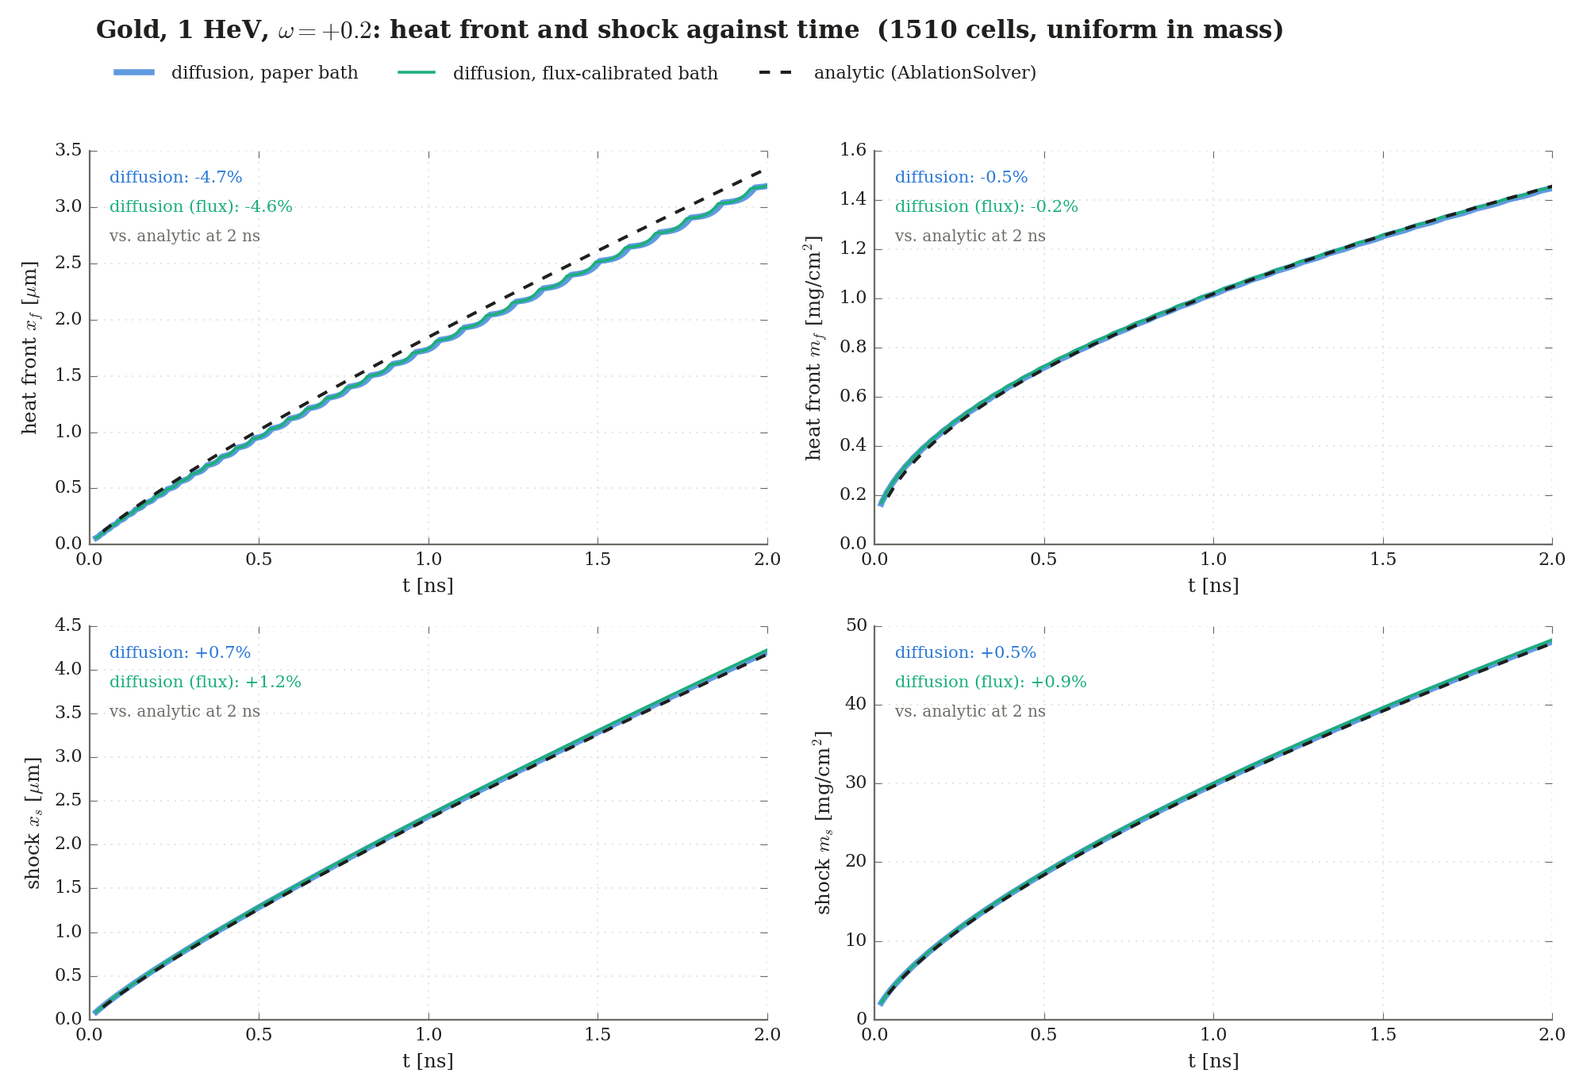
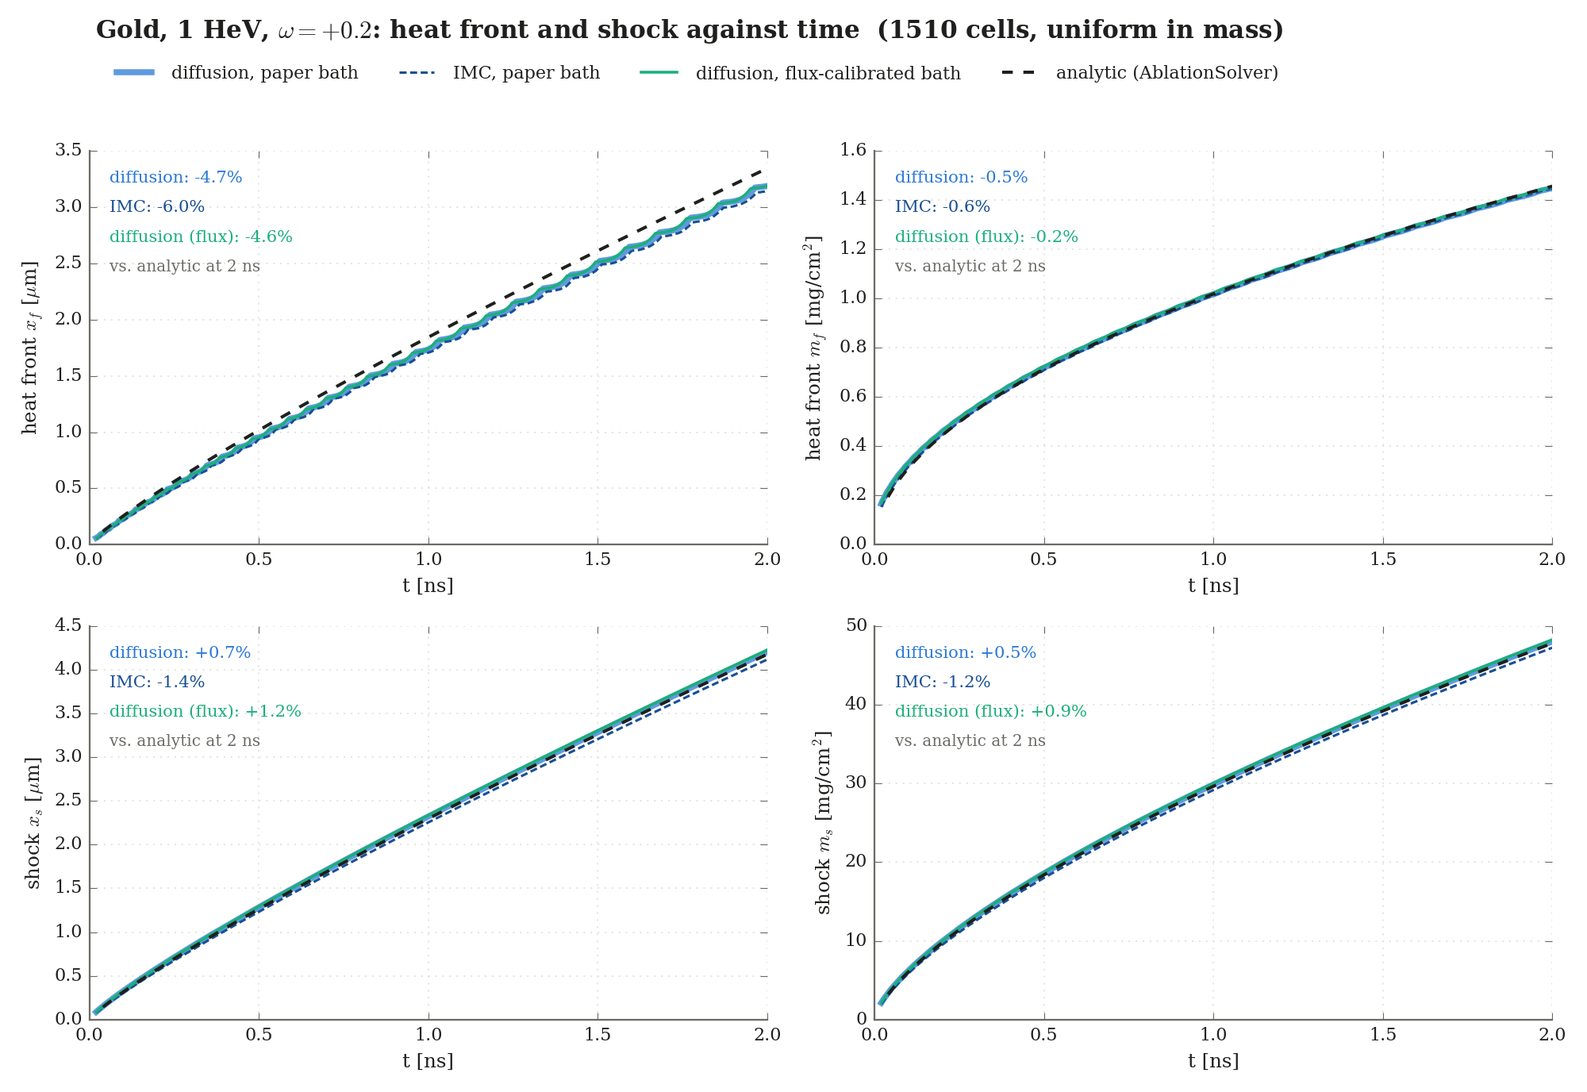
Tests 3-4: full / heat / shock views, linear and log-log, in every figure folder
imc_vs_diffusion.plot_hydro_profiles and bath_calibration.plot_overlay take region
("full", "heat": up to 1.3 m_heat, "shock": 0.85 m_heat ... 1.1 m_shock) and scale
("linear", "logx", "loglog"; u on a symmetric-log axis), with y limits from the
simulations inside the window and the 2/3/5 ticks labelled on log axes under 1.5
decades. bath_calibration --views writes md/phase_c/figures/<folder>/<case>/
<region>_<scale>.png for Test 3 (paper bath) and Test 4 (three baths and the overlay).
Default calls are unchanged.

SimulationConfig.dt_first_frac (default 1e-10, as before): the first two rad-hydro steps
as a fraction of t_end. They are not CFL-limited, and at omega = +0.6 the first one heats
the 1e-15 cm surface cell so much that c_s dt / dx ~ 6 and the compatible energy update
diverges; the sweep uses 1e-12 there. omega = +0.2 IMC added to the sweep.

diff --git a/src/rad_hydro_sim/verification/imc_vs_diffusion.py b/src/rad_hydro_sim/verification/imc_vs_diffusion.py
@@ -707,9 +707,25 @@ def optical_depth_line(run) -> str:
     return "optical depth of the hot plasma, T > T_s/2 (diffusion run): " + "; ".join(parts)
 
 
+def label_short_log_axes(ax):
+    """On a log axis spanning under ~1.5 decades matplotlib labels no tick; label the 2, 3, 5 ones."""
+    from matplotlib.ticker import FuncFormatter, LogLocator
+
+    for axis, (lo, hi) in ((ax.xaxis, ax.get_xlim()), (ax.yaxis, ax.get_ylim())):
+        if axis.get_scale() == "log" and lo > 0 and hi / lo < 30:
+            axis.set_major_locator(LogLocator(base=10, subs=(1.0, 2.0, 3.0, 5.0)))
+            axis.set_major_formatter(FuncFormatter(lambda v, _: f"{v:g}"))
+            axis.set_minor_formatter(FuncFormatter(lambda v, _: ""))
+
+
 def plot_hydro_profiles(out: Path, label: str, seeds, path: Path, solver=None, patched=(), log_axis=None,
-                        analytic_label="Analytic", method=None):
+                        analytic_label="Analytic", method=None, region="full", scale=None):
     """rho, p, u, T against mass at 1, 1.5, 2 ns, in the style of the ICTT figures.
+
+    ``region``: "full" (the domain), "heat" (the ablated layer, up to 1.3 m_heat) or "shock"
+    (from 0.85 m_heat to 1.1 m_shock); the y limits come from the simulations inside it.
+    ``scale``: "linear", "logx" (log mass axis) or "loglog" (log mass and log rho, p, T; u, which
+    changes sign, on a symmetric-log axis); None keeps the case's log_mass_axis (or ``log_axis``).
 
     ``solver``: the analytic curve, an AblationSolver to reuse (building one takes ~20 min) or
     any object with solve(mass=, time=), such as bath_calibration.Analytic;
@@ -746,12 +762,14 @@ def plot_hydro_profiles(out: Path, label: str, seeds, path: Path, solver=None, p
     fig, axes = plt.subplots(2, 2, figsize=(14, 10))
     panels = {"rho": axes[0, 0], "p": axes[0, 1], "u": axes[1, 0], "T_material": axes[1, 1]}
     m_heat, m_shock, T_shocked = [], [], []
+    m_layer = 1.5 * front_values(d, label, float(d["t"][snaps[-1]]))["m_heat"]
     for col, k in zip(sim_colors, snaps):
         t = float(d["t"][k])
         m_sim = d["m"][k]
-        # dense on both a linear and a log axis (a thin ablated layer on a wide domain)
+        # dense on both a linear and a log axis (a thin ablated layer on a wide domain), and in the layer
         mass = np.unique(np.concatenate((np.linspace(1e-12, m_sim[-1], 1000),
-                                         np.geomspace(1e-4 * m_sim[0], m_sim[-1], 1500))))
+                                         np.geomspace(1e-4 * m_sim[0], m_sim[-1], 1500),
+                                         np.linspace(1e-12, min(m_layer, m_sim[-1]), 800))))
         exact = solver.solve(mass=mass, time=t)
         mean = {key: np.mean([r[key][k] for r in imc], axis=0) for key in scales} if imc else None
         for key, ax in panels.items():
@@ -769,25 +787,45 @@ def plot_hydro_profiles(out: Path, label: str, seeds, path: Path, solver=None, p
         behind = (m_sim > 0.5 * m_shock[-1]) & (m_sim < m_shock[-1])          # the shocked plateau
         T_shocked.append(float(np.max(d["T_material"][k][behind])) / K_PER_HEV if behind.any() else 0.0)
 
-    # y limits from the simulations, as in the reference (keeps the analytic singularities in bounds)
-    sim = {key: np.concatenate([d[key][k] * scales[key] for k in snaps]) for key in scales}
-    panels["rho"].set_ylim(-0.025 * sim["rho"].max(), 1.15 * sim["rho"].max())
-    panels["p"].set_ylim(-0.05 * sim["p"].max(), 1.15 * sim["p"].max())
-    panels["u"].set_ylim(1.15 * sim["u"].min() - 5.0, sim["u"].max() + 10.0)
-    panels["T_material"].set_ylim(-0.05 * sim["T_material"].max(), 1.15 * sim["T_material"].max())
+    explicit_view = scale is not None or region != "full"
+    if scale is None:
+        scale = "logx" if (HYDRO_CASES[label].log_mass_axis if log_axis is None else log_axis) else "linear"
+    log_x = scale in ("logx", "loglog")
+    # the mass window [mg/cm^2]
     x_max = 1e3 * float(d["m"][snaps[-1]][-1])
+    x_first = 0.5e3 * float(np.min(d["m"][snaps[-1]]))
+    lo, hi = {"full": (x_first if log_x else 0.0, x_max),
+              "heat": (x_first if log_x else 0.0, min(1.3e3 * max(m_heat), x_max)),
+              "shock": (0.85e3 * min(m_heat), min(1.1e3 * max(m_shock), x_max))}[region]
+    # y limits from the simulations inside the window (keeps the analytic singularities in bounds)
+    sim = {key: np.concatenate([d[key][k][(d["m"][k] * 1e3 >= lo) & (d["m"][k] * 1e3 <= hi)] * scales[key]
+                                for k in snaps]) for key in scales}
+    for key, ax in panels.items():
+        v = sim[key]
+        if scale == "loglog" and key != "u":
+            pos = v[v > 0]
+            ax.set_yscale("log")
+            ax.set_ylim(0.7 * max(pos.min(), 1e-9 * pos.max()), 1.6 * pos.max())
+        elif scale == "loglog":       # u changes sign: symmetric log, linear within 1 km/s
+            ax.set_yscale("symlog", linthresh=1.0)
+            ax.set_ylim(1.5 * min(v.min(), -1.0), 1.5 * max(v.max(), 1.0))
+        elif region == "full":        # as in the reference figure
+            top = {"rho": 1.15, "p": 1.15, "T_material": 1.15}
+            if key == "u":
+                ax.set_ylim(1.15 * v.min() - 5.0, v.max() + 10.0)
+            else:
+                ax.set_ylim(-(0.025 if key == "rho" else 0.05) * v.max(), top[key] * v.max())
+        else:
+            span = v.max() - v.min()
+            ax.set_ylim(v.min() - 0.06 * span, v.max() + 0.12 * span)
 
     titles = {"rho": "Density", "p": "Pressure", "u": "Velocity", "T_material": "Temperature"}
     ylabels = {"rho": r"$\rho$ [g/cm³]", "p": r"$P$ [MBar]", "u": r"$u$ [km/s]", "T_material": r"$T$ [HeV]"}
-    if log_axis is None:
-        log_axis = HYDRO_CASES[label].log_mass_axis
-    x_min = 0.5e3 * float(np.min(d["m"][snaps[-1]]))
     for key, ax in panels.items():
-        if log_axis:      # a thin ablated layer on a wide domain: both in view at once
+        if log_x:         # a thin ablated layer on a wide domain: both in view at once
             ax.set_xscale("log")
-            ax.set_xlim(x_min, x_max)
-        else:
-            ax.set_xlim(0.0, x_max)
+        ax.set_xlim(lo, hi)
+        label_short_log_axes(ax)
         ax.grid(True, alpha=0.3)
         ax.set_title(titles[key], fontsize=14, fontweight="bold")
         ax.set_ylabel(ylabels[key], fontsize=13)
@@ -813,7 +851,7 @@ def plot_hydro_profiles(out: Path, label: str, seeds, path: Path, solver=None, p
         "T_material": ((0.40, 0.42, 0.60, 0.50), (0.8e3 * min(m_shock), 1.05e3 * max(m_shock)),
                        (0.0, 3.5 * max(T_shocked) if max(T_shocked) > 0 else 0.15)),
     }
-    for key, (pos, xlim, ylim) in ({} if log_axis else insets).items():
+    for key, (pos, xlim, ylim) in (insets if (region == "full" and scale == "linear") else {}).items():
         ax = panels[key]
         ins = ax.inset_axes(list(pos))
         for line in ax.get_lines():
@@ -826,8 +864,11 @@ def plot_hydro_profiles(out: Path, label: str, seeds, path: Path, solver=None, p
         ax.indicate_inset_zoom(ins, edgecolor="gray", alpha=0.6)
 
     tau, thin, T_s = layer_optical_depth(d)
+    view = ({"full": "full domain", "heat": "heat region", "shock": "shocked region"}[region] + ", "
+            + {"linear": "linear", "logx": "log mass axis", "loglog": "log-log"}[scale]) if explicit_view else ""
     fig.suptitle(f"Patched Ablation & Shock Verification: Diffusion vs IMC\n{HYDRO_CASES[label].title}"
-                 + (f"; {method}" if method else ""), fontsize=16, fontweight="bold", y=0.995)
+                 + (f"; {method}" if method else "") + (f"; {view}" if view else ""),
+                 fontsize=16, fontweight="bold", y=0.995)
     fig.text(0.5, 0.925, rf"hot ablated plasma ($T > T_s/2$) at {d['t'][-1] * 1e9:.1f} ns: optical depth $\mathcal{{T}}$ = {tau:.3g}, "
              rf"{thin:.0%} of its mass in cells with $\tau$ < 1;  surface T = {T_s:.3f} HeV (solver: "
              rf"{T_drive(label, float(d['t'][-1])):.3f})", ha="center", fontsize=12, style="italic")

diff --git a/src/rad_hydro_sim/verification/bath_calibration.py b/src/rad_hydro_sim/verification/bath_calibration.py
@@ -192,9 +192,13 @@ def _style(ax):
     ax.tick_params(colors=MUTED, labelcolor=INK, labelsize=10)
 
 
-def plot_overlay(label: str, path: Path, t: float = 2e-9):
+def plot_overlay(label: str, path: Path, t: float = 2e-9, region="full", scale=None):
     """Diffusion under every bath of one case at t against the analytic solution; the bath
-    closest to it by profile_score drawn bold, the baths ranked beside the profiles."""
+    closest to it by profile_score drawn bold, the baths ranked beside the profiles.
+
+    ``region`` / ``scale`` as in imc_vs_diffusion.plot_hydro_profiles: "full", "heat" or "shock";
+    "linear", "logx" or "loglog" (None: the case's log_mass_axis).  The ranking is always over
+    the full domain."""
     import matplotlib
     matplotlib.use("Agg")
     import matplotlib.pyplot as plt
@@ -221,25 +225,44 @@ def plot_overlay(label: str, path: Path, t: float = 2e-9):
     m_dense = np.unique(np.concatenate((np.linspace(1e-12, m_end, 1500),
                                         np.geomspace(1e-4 * min(r["m"][k[b]][0] for b, r in runs.items()), m_end, 1500))))
     t_an = float(runs[best["bath"]]["t"][k[best["bath"]]])
+    fronts = [ivd.front_values(r, label, float(r["t"][k[b]])) for b, r in runs.items()]
+    shock = max([analytic.front_values(t_an)["m_shock"]] + [fv["m_shock"] for fv in fronts])
+    heat = max([analytic.front_values(t_an)["m_heat"]] + [fv["m_heat"] for fv in fronts])
+    heat_min = min([analytic.front_values(t_an)["m_heat"]] + [fv["m_heat"] for fv in fronts])
+    explicit_view = scale is not None or region != "full"
+    if scale is None:
+        scale = "logx" if ivd.HYDRO_CASES[label].log_mass_axis else "linear"
+    log_x = scale in ("logx", "loglog")
+    x_first = 0.5e3 * min(r["m"][k[b]][0] for b, r in runs.items())
+    x_lo, x_hi = {"full": (x_first if log_x else 0.0, 1.15e3 * shock),
+                  "heat": (x_first if log_x else 0.0, 1.3e3 * heat),
+                  "shock": (0.85e3 * heat_min, 1.1e3 * shock)}[region]
+    m_dense = np.unique(np.concatenate((m_dense, np.linspace(max(x_lo, 1e-9) * 1e-3, x_hi * 1e-3, 1500))))
     sol = analytic.solve(mass=m_dense, time=t_an)
-    shock = max([analytic.front_values(t_an)["m_shock"]] +
-                [ivd.front_values(r, label, float(r["t"][k[b]]))["m_shock"] for b, r in runs.items()])
-    log_axis = ivd.HYDRO_CASES[label].log_mass_axis
-    for key, ref, ylabel, scale in FIELDS:
+    for key, ref, ylabel, fscale in FIELDS:
         ax = axes[key]
         for b, r in runs.items():
             hl = b == best["bath"]
-            ax.plot(r["m"][k[b]] * 1e3, r[key][k[b]] * scale, color=BATH_COLOR[b], lw=2.4 if hl else 1.2,
+            ax.plot(r["m"][k[b]] * 1e3, r[key][k[b]] * fscale, color=BATH_COLOR[b], lw=2.4 if hl else 1.2,
                     alpha=1.0 if hl else 0.55, zorder=3 if hl else 2)
-        ax.plot(m_dense * 1e3, np.asarray(sol[ref], dtype=float) * scale, color=INK, ls="--", lw=1.8, zorder=4)
-        sim = np.concatenate([r[key][k[b]] * scale for b, r in runs.items()])
-        lo, hi = sim.min(), sim.max()
-        ax.set_ylim(lo - 0.06 * (hi - lo), hi + 0.12 * (hi - lo))
-        if log_axis:
-            ax.set_xscale("log")
-            ax.set_xlim(0.5e3 * min(r["m"][k[b]][0] for b, r in runs.items()), 1.15e3 * shock)
+        ax.plot(m_dense * 1e3, np.asarray(sol[ref], dtype=float) * fscale, color=INK, ls="--", lw=1.8, zorder=4)
+        # y limits from the simulations inside the mass window
+        sim = np.concatenate([r[key][k[b]][(r["m"][k[b]] * 1e3 >= x_lo) & (r["m"][k[b]] * 1e3 <= x_hi)] * fscale
+                              for b, r in runs.items()])
+        if scale == "loglog" and key != "u":
+            pos = sim[sim > 0]
+            ax.set_yscale("log")
+            ax.set_ylim(0.7 * max(pos.min(), 1e-9 * pos.max()), 1.6 * pos.max())
+        elif scale == "loglog":   # u changes sign: symmetric log, linear within 1 km/s
+            ax.set_yscale("symlog", linthresh=1.0)
+            ax.set_ylim(1.5 * min(sim.min(), -1.0), 1.5 * max(sim.max(), 1.0))
         else:
-            ax.set_xlim(0.0, 1.15e3 * shock)
+            lo, hi = sim.min(), sim.max()
+            ax.set_ylim(lo - 0.06 * (hi - lo), hi + 0.12 * (hi - lo))
+        if log_x:
+            ax.set_xscale("log")
+        ax.set_xlim(x_lo, x_hi)
+        ivd.label_short_log_axes(ax)
         ax.set_ylabel(ylabel, color=INK, fontsize=12)
         ax.set_xlabel(r"mass $m$ [mg/cm$^2$]", color=INK, fontsize=11)
         ax.set_title(ref.capitalize(), color=INK, fontsize=13, loc="left", fontweight="bold")
@@ -284,12 +307,48 @@ def plot_overlay(label: str, path: Path, t: float = 2e-9):
     verdict = f"Closest: {BATH_SHORT[best['bath']]}"
     if len(rows) > 1 and rows[1]["score"] - best["score"] < 1e-3:   # within 0.1 percentage point
         verdict = f"Tie: {BATH_SHORT[best['bath']]} and {BATH_SHORT[rows[1]['bath']]}"
-    fig.suptitle(f"{ivd.HYDRO_CASES[label].title}: diffusion under each bath at {t_an * 1e9:.1f} ns.  {verdict}",
+    view = ({"full": "full domain", "heat": "heat region", "shock": "shocked region"}[region] + ", "
+            + {"linear": "linear", "logx": "log mass axis", "loglog": "log-log"}[scale] + ".  ") if explicit_view else ""
+    fig.suptitle(f"{ivd.HYDRO_CASES[label].title}: diffusion under each bath at {t_an * 1e9:.1f} ns; {view}{verdict}",
                  x=0.055, ha="left", fontsize=15, fontweight="bold", color=INK, y=0.985)
     path.parent.mkdir(parents=True, exist_ok=True)
     fig.savefig(path, dpi=170)
     plt.close(fig)
     return rows
+
+
+VIEW_CASES = ("test3_smooth", "test4_full")
+REGIONS = ("full", "heat", "shock")
+SCALES = ("linear", "loglog")
+
+
+def plot_views(labels=VIEW_CASES, baths=tuple(BATHS)):
+    """Every region x scale view of each case, in each bath folder and (cases with more than one
+    bath) in overlay/: md/phase_c/figures/<folder>/<case>/<region>_<scale>.png."""
+    import matplotlib
+    matplotlib.use("Agg")
+
+    for label in labels:
+        stem = figure_name(label).replace("_profiles.png", "")
+        analytic = None
+        for bath in baths:
+            folder, out = BATHS[bath]
+            if not (out / f"{label}_diffusion.npz").exists():
+                continue
+            analytic = analytic or Analytic(label)
+            for region in REGIONS:
+                for scale in SCALES:
+                    path = FIG / folder / stem / f"{region}_{scale}.png"
+                    path.parent.mkdir(parents=True, exist_ok=True)
+                    ivd.plot_hydro_profiles(out, label, (1, 2, 3), path, solver=analytic, method=BATH_TEXT[bath],
+                                            region=region, scale=scale)
+                    print(f"  wrote {path.relative_to(ivd.REPO)}", flush=True)
+        if len(baths_of(label)) > 1:
+            for region in REGIONS:
+                for scale in SCALES:
+                    path = FIG / "overlay" / stem / f"{region}_{scale}.png"
+                    plot_overlay(label, path, region=region, scale=scale)
+                    print(f"  wrote {path.relative_to(ivd.REPO)}", flush=True)
 
 
 def main(argv=None):
@@ -304,6 +363,9 @@ def main(argv=None):
     ap.add_argument("--overlay", action="store_true",
                     help="cases with more than one bath: one figure comparing them, md/phase_c/figures/overlay/")
     ap.add_argument("--baths", nargs="*", default=list(BATHS), choices=list(BATHS))
+    ap.add_argument("--views", action="store_true",
+                    help="every region (full, heat, shock) x scale (linear, log-log) view of --cases, "
+                         "md/phase_c/figures/<folder>/<case>/")
     args = ap.parse_args(argv)
     labels = list(args.cases)
     for w in args.omega_scan:
@@ -314,6 +376,9 @@ def main(argv=None):
         return
     if args.profiles:
         plot_profile_set(labels, args.baths)
+        return
+    if args.views:
+        plot_views(labels, args.baths)
         return
     if args.overlay:
         for label in labels:

diff --git a/src/rad_hydro_sim/simulation/iterator.py b/src/rad_hydro_sim/simulation/iterator.py
@@ -365,6 +365,7 @@ def compute_adaptive_dt(
     E_rad_last: np.ndarray,
     T_rad_last: np.ndarray,
     dt_ramp_max: Optional[float] = None,
+    dt_first_frac: float = 1e-10,
 ) -> float:
     """Compute adaptive timestep for hydro, radiation, or coupled rad-hydro simulation steps.
 
@@ -385,7 +386,7 @@ def compute_adaptive_dt(
         # at the origin for t > 0). Starting at 1e-6 * t_end misses ~9% of
         # the energy and leaves the heat front correspondingly short; ~10
         # decades captures it to a few tenths of a percent.
-        dt0 = 1e-10 * t_end
+        dt0 = dt_first_frac * t_end
         if t > 0.0:
             # Restarting from a seeded profile at t > 0: a self-similar wave
             # advances as r ~ t^(1/p), so the step must be small against the
@@ -669,6 +670,7 @@ def simulate_rad_hydro(
                 E_rad_last=prev_E_rad,
                 T_rad_last=prev_T_rad,
                 dt_ramp_max=getattr(simulation_config, "dt_ramp_max", None),
+                dt_first_frac=getattr(simulation_config, "dt_first_frac", 1e-10),
             )
             dt_prev = dt
 

diff --git a/src/rad_hydro_sim/verification/omega_sweep.py b/src/rad_hydro_sim/verification/omega_sweep.py
@@ -83,8 +83,10 @@ def register(omega: float) -> str:
                              imc=ivd.HYDRO_CASES["test4_full"].imc)
     else:   # rho ~ x^-omega piles the mass at the surface: Test 3's graded mesh and settings
         spec = replace(ivd.HYDRO_CASES["test3_full"], preset=key, title=title, log_mass_axis=False)
-        if omega >= 0.6:   # the compatible energy update fails to converge at the default 2 ps cap
-            spec = replace(spec, dt_max=2e-13)
+        if omega >= 0.6:
+            # The first step (1e-10 t_end, not CFL-limited) heats the 1e-15 cm surface cell ~2000x;
+            # its sound speed then puts c_s dt / dx ~ 6 and the compatible energy update diverges.
+            spec = replace(spec, config=tuple(spec.config) + (("dt_first_frac", 1e-12),))
     ivd.HYDRO_CASES[label] = spec
     return label
 

diff --git a/src/hydro_sim/problems/simulation_config.py b/src/hydro_sim/problems/simulation_config.py
@@ -117,6 +117,11 @@ class SimulationConfig:
     # by 1.1 per step up to this cap (s); CFL still applies with hydro.  Gives
     # identical dt sequences to the diffusion and IMC solvers.
     dt_ramp_max: Optional[float] = None
+    # First steps (step <= 2) of rad-hydro, as a fraction of t_end.  They are not CFL-limited
+    # (the drive is singular at t -> 0); a very thin, dense surface cell (rho0 x^-omega with
+    # omega >~ 0.6) needs a smaller one, or the first step's heating breaks the compatible
+    # energy update.
+    dt_first_frac: float = 1e-10
     # Radiation solver: "diffusion" (original) or "imc" (src/imc; radiation_only
     # and, since Phase C, full_rad_hydro).
     radiation_solver: str = "diffusion"

diff --git a/md/phase_c/figures/README.md b/md/phase_c/figures/README.md
@@ -12,12 +12,23 @@ Every figure here is a full-profile figure (ρ, p, u, T against Lagrangian mass)
 | `legacy/impulse_patch/` | the impulse-matched patch, per bath and overlays (`../legacy/analytic_patching_impulse.md`) |
 | `legacy/non_profile/` | the earlier non-profile figures: fronts against time, `opacity_summary.png`, `bath_comparison.png` |
 
-Test 3's file is `test3_full_profiles.png` (its fine-mesh run, `test3_smooth`). The gold ω sweep of the fronts against time is a separate set: `../omega_sweep/`.
+Test 3's file is `test3_full_profiles.png` (its fine-mesh run, `test3_smooth`).
+
+**Tests 3 and 4, every view.** Each folder that has the case (Test 3: `paper_bath/`; Test 4: the three bath folders and `overlay/`) also has a subfolder `test3_full/` or `test4_full/` with six figures, `<region>_<scale>.png`:
+
+| region | mass window | | scale | axes |
+|---|---|---|---|---|
+| `full` | the whole domain | | `linear` | linear mass, linear ρ, p, u, T |
+| `heat` | the ablated layer, up to 1.3 m_heat | | `loglog` | log mass, log ρ, p, T; u (which changes sign) on a symmetric-log axis, linear within ±1 km/s |
+| `shock` | from 0.85 m_heat to 1.1 m_shock | | | |
+
+The y limits come from the simulations inside the window. In the overlays the ranking table is always over the full domain. The top-level `test3_full_profiles.png` (log mass axis, linear values) and `test4_full_profiles.png` (linear) are the figures the docs link to. The gold ω sweep of the fronts against time is a separate set: `../omega_sweep/`.
 
 Regenerate (seconds per case once the solvers are cached in `results/patching_poc/`):
 
 ```
 uv run python -m rad_hydro_sim.verification.bath_calibration --cases test1_full test2_full test3_smooth test4_full test5_full test6_full --profiles
 uv run python -m rad_hydro_sim.verification.bath_calibration --cases test1_full test2_full test4_full test5_full test6_full --overlay
+uv run python -m rad_hydro_sim.verification.bath_calibration --cases test3_smooth test4_full --views
 uv run python -m rad_hydro_sim.verification.bath_calibration --cases --omega-scan=-0.75 --profiles   # likewise -0.5, -0.25; 0.25 with --N 2000
 ```

diff --git a/md/phase_c/omega_sweep/README.md b/md/phase_c/omega_sweep/README.md
@@ -29,6 +29,7 @@ Simulation vs. `AblationSolver`, in %; + means the simulation is ahead.
 | | IMC, paper | −3.5 | −0.2 | −2.4 | −2.5 |
 | | diffusion, flux-calibrated | −1.7 | +0.7 | +0.2 | 0.0 |
 | +0.2 | diffusion, paper | −4.7 | −0.5 | +0.7 | +0.5 |
+| | IMC, paper | −6.0 | −0.6 | −1.4 | −1.2 |
 | | diffusion, flux-calibrated | −4.6 | −0.2 | +1.2 | +0.9 |
 | +0.4 | diffusion, paper | −8.9 | −1.3 | −0.8 | −3.3 |
 
@@ -44,7 +45,7 @@ What it shows:
 |---|---|---|---|---|
 | −0.8 … −0.2 | 400 cells, uniform in mass | diffusion, 39–49 s | 7 runs (flux matched to 0.2–1.0%), then diffusion, 19–35 s | 1 seed, paper bath |
 | 0 | 657, uniform in mass | 76 s | converged after 4 runs; then diffusion, 32 s | 1 seed |
-| +0.2 | 1510, uniform in mass | 186 s | converged after 3 runs; then diffusion, 100 s | skipped |
+| +0.2 | 1510, uniform in mass | 186 s | converged after 3 runs; then diffusion, 100 s | 1 seed, 420 s |
 | +0.4 | 347, graded (Test 3's) | 555 s | **skipped** (7 × ~10 min) | skipped |
 | +0.6 | graded | **failed**: the hydro's compatible energy update does not converge, also with the time step capped at 0.2 ps; not pursued | — | — |
 | +0.8 | — | **no analytic solution**: Menahem's `PistonShock` finds no root for the shock (both `fsolve` and bisection fail from ω ≈ 0.75; 0.7 works) | — | — |
